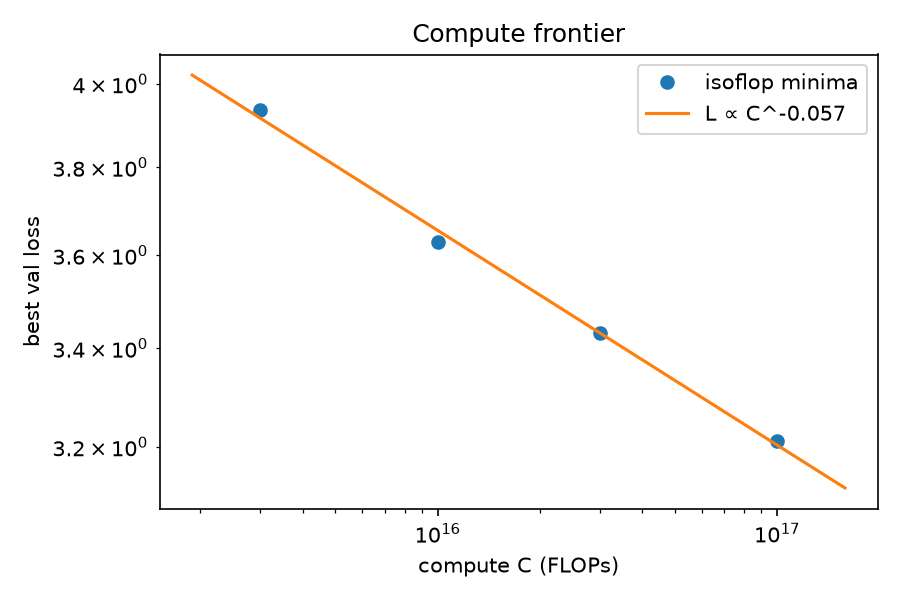
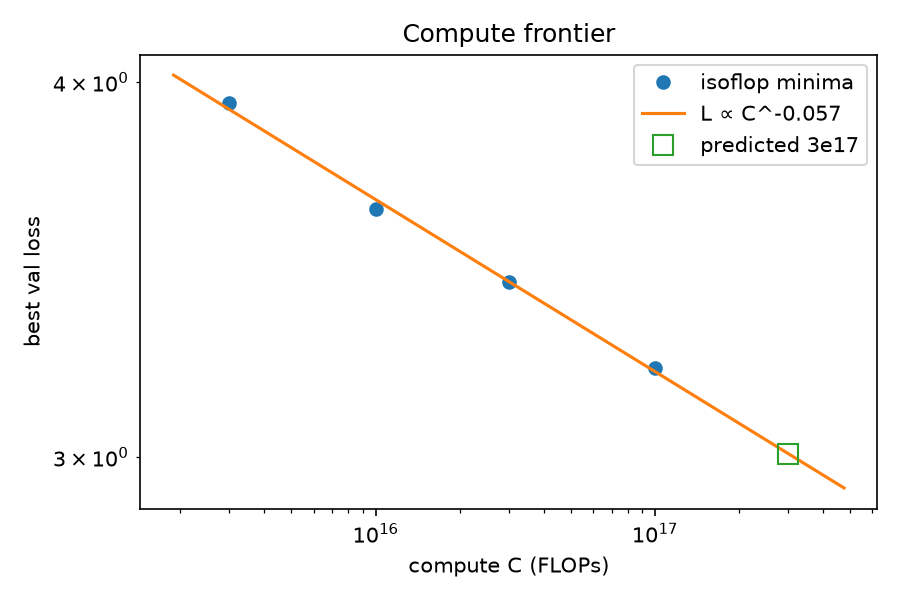
phase5: pre-registered 3e17 prediction from isoflop and parametric fits

diff --git a/NOTES.md b/NOTES.md
@@ -51,3 +51,10 @@ Format: `## YYYY-MM-DD — short title`, then what happened, how it was diagnose
   - 1e17: 29.7M (19), unchanged.
 - Exponent a: v1 0.747 → v2 **0.545**, against Chinchilla's ~0.5. The v1 bias went the predicted direction: step starvation penalised the large-N points most, which pushed N_opt down at small C and steepened a.
 - Seed noise σ = 0.085 nats, but it is dominated by one pair: 3e15/r5 (10M params, 5 tok/param) at 4.270 vs 4.019. r10 differs by 0.098; r20, r40 and r80 by 0.0005, 0.016 and 0.004. The r5 gap isn't instability (max grad norm 5.8, no attention blow-up). Train-loss bumps of ~0.2 appear at identical steps in runs reading the same data region (2335 for seed-0 runs, 4259 for seed-1), so they are data-driven. I'm keeping the pre-registered estimator (RMS over all pairs) rather than switching to a robust one after seeing the data. The isoflop intervals on a (0.12–1.67) are therefore wide and probably pessimistic for the larger budgets.
+
+## 2026-10-20 — Fits and pre-registered 3e17 prediction
+- Isoflop (grid v2): a = 0.545 [0.120, 1.665], b = 0.455. Parametric: a_implied = 0.565 [0.144, 0.881], α = 0.458, β = 0.594, E = 2.716 [~0, 3.004]. **The two methods agree on a** (0.545 vs 0.565), and both are near Chinchilla's ~0.5. The parametric parameter intervals are very wide (E spans ~0–3.0): with ~21 points over a 33× compute range, E/A/B trade off against each other. This matches Besiroglu et al. (2024).
+- Each run of the parametric bootstrap (1,000 resamples) takes ~30 min on 10 cores locally; `predict make` runs it again.
+- **Prediction for C = 3e17**, committed and tagged before any test run:
+  - Isoflop N_opt = 57.1M [10.5M, 1.21B]. Declared run: 17 layers × 512 (57,132,544 params), 875M tokens (15.3 tok/param), LR 1.22e-3 from the rule.
+  - Predicted val loss: parametric 3.106 (parameter interval 3.032–3.193; prediction interval incl. seed noise 2.923–3.271); isoflop-frontier extrapolation 3.008 (point estimate).
